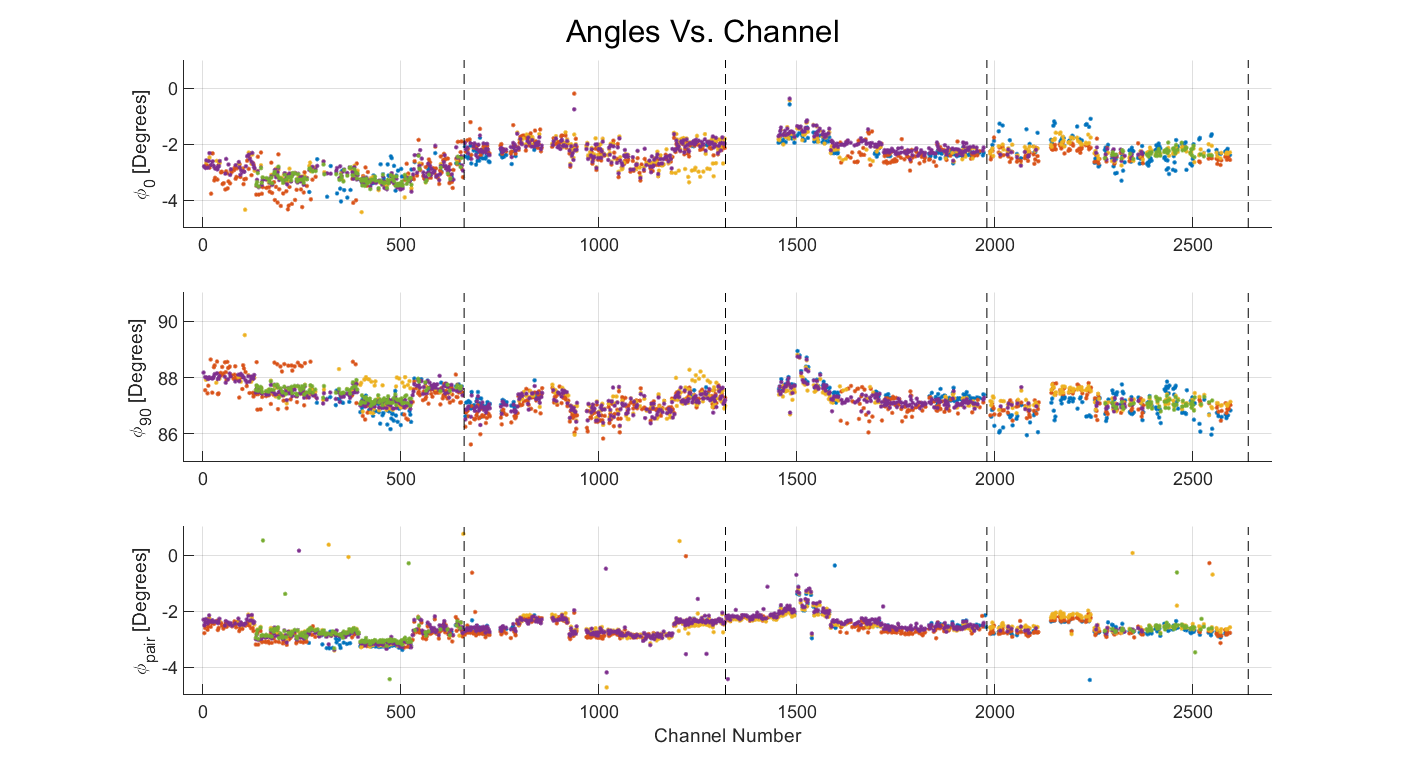
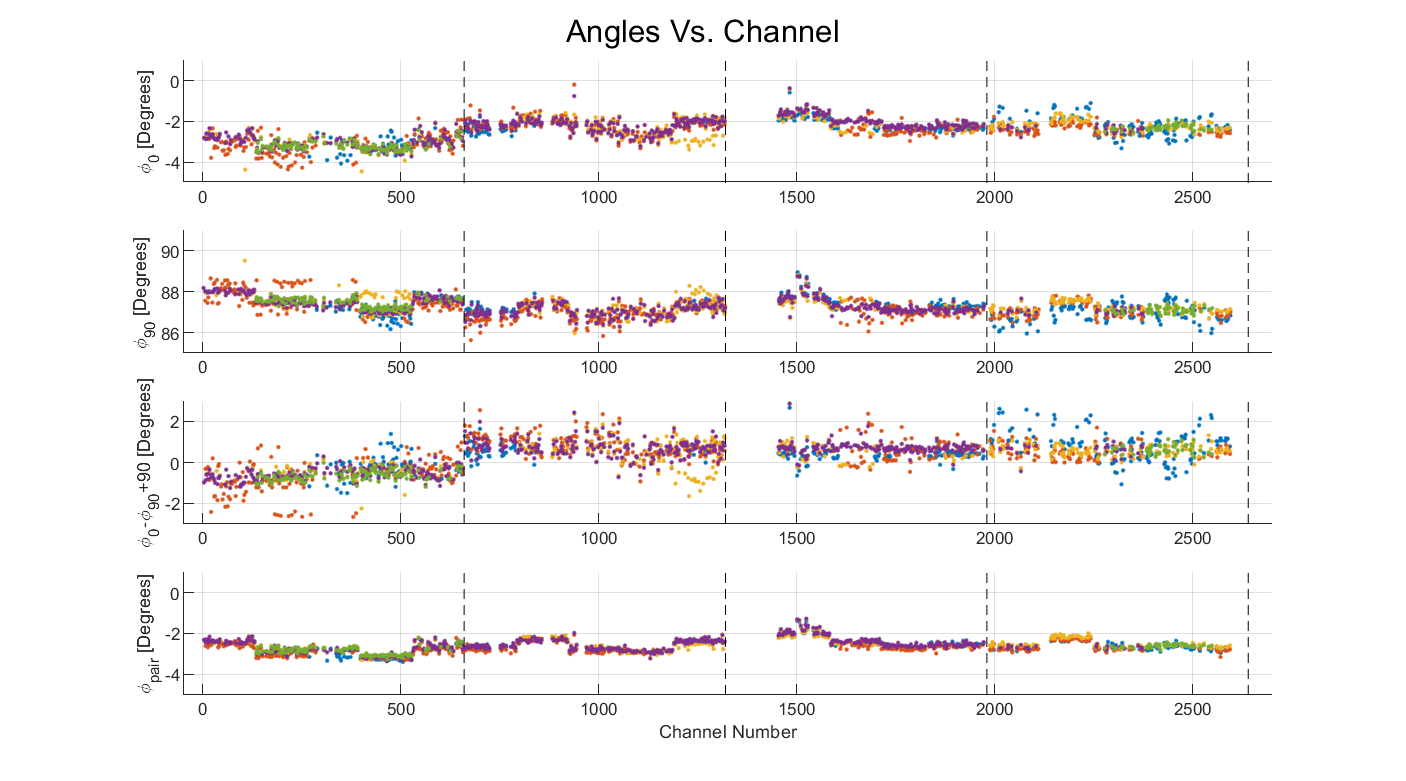
Mostly done with the math for phi_pair

diff --git a/2022mmdd_rps_angles_xpol/index.html b/2022mmdd_rps_angles_xpol/index.html
@@ -145,52 +145,53 @@
     <h4>Pair-Difference Polarization Angles</h4>
 
     <p>
-        It is also useful to calculate the "pair-difference" polarization angle. In practice, the contribution of the cross-polar response to this angle is very small so the per-pair polarization angle can be approximated by:
+        It is also useful to calculate the "pair-difference" polarization angle.
+        In practice, the contribution of the cross-polar response to this angle is very small so the per-pair polarization angle can be approximated by:
     </p>
     \begin{equation}
     \phi_{pair}\sim\frac{\phi_A+\phi_B}{2}
     \end{equation}
 
-    <p>
-        We first calculate the contribution to Q and U:
-    </p>
+
+    <p>We start with a Stokes vector aligned with +Q:</p>
 
     \begin{equation}
-    \begin{split}
-    &Q_{tot} = Q^+-(Q^-)\\
-    &U_{tot} = U^+-(U^-)\\
-    \end{split}
+    S =
+    \begin{bmatrix}
+    I \\
+    Q \\
+    U \\
+    \end{bmatrix}
+    =
+    \begin{bmatrix}
+    1 \\
+    1 \\
+    0 \\
+    \end{bmatrix}
     \end{equation}
 
-    <p>
-    +Q and -Q have contributions from the polarization response given by the polarization angle and the cross-polar response. The total contribution is a weighted average
-    </p>
+    <p>and rotate Q into U by the per-detector polarization angle $\phi$</p>
 
     \begin{equation}
-    \begin{split}
-        Q = \frac{( Q^+_A+\epsilon_B Q^+_B)-( Q_B^{-}+\epsilon_B Q^-_A)}{2+\epsilon_A+\epsilon_B}
-    \end{split}
+    S_{rot} = R(\phi)S
     \end{equation}
 
-
-    <p>If I orient Q such that +Q is aligned with $\phi_d=0/180^\circ$, I can rewrite </p>
+    <p>Where R is the rotation matrix</p>
 
     \begin{equation}
-    \begin{split}
-
-    \end{split}
+    R(\phi) =
+    \begin{bmatrix}
+    1 & 0 & 0 \\
+    0 & \cos(2\phi) & -\sin(2\phi) \\
+    0 & \sin(2\phi) & \cos(2\phi) \\
+    \end{bmatrix}
     \end{equation}
 
-    <p></p>
+<p>The pair-combined Stokes vector is the sum of the rotated vectors from A and B detectors as well as two additional terms to account for cross-polar response which are orthogonal to their respective A/B terms and scaled by the cross-polar response</p>
 
-    \begin{equation}\label{eq:QU}
-    \begin{split}
-    &Q = \frac{\left[\cos(2\phi_A)+\epsilon_B\cos(2\,(\phi_B+90))\right]-\left[\cos(2\phi_B)+\epsilon_A\cos(2\,(\phi_A+90))\right]}{2+\epsilon_A+\epsilon_B}\\
-    &\\
-    &U = \frac{\left[\sin(2\phi_A)+\epsilon_B\sin(2\phi_B+90)\right]-\left[\sin(2\phi_B)+\epsilon_A\sin(2\phi_A+90)\right]}{2+\epsilon_A+\epsilon_B}\\
-    \end{split}
+    \begin{equation}
+    S_{total} = \left[R(\phi_A)+R(\phi_B+\frac{\pi}{2})+\epsilon_A R(\phi_A+\frac{\pi}{2})+ \epsilon_B R(\phi_B)\right]S
     \end{equation}
-
 
     <p>
         and the effective per-pair polarization angle $\phi_{pair}$ and polarization efficiency
@@ -198,9 +199,9 @@
     </p>
     \begin{equation}\label{eq:phiq}
     \begin{split}
-    &\phi_{pair} = \frac{1}{2}\tan^{-1}\frac{U}{Q}\\
+    &\phi_{pair} = \frac{1}{2}\tan^{-1}\frac{S_3}{S_2}\\
     &\\
-    &\epsilon_{pair} = 1-\sqrt{Q^2+U^2}
+    &\epsilon_{pair} = S_1-\sqrt{S_2^2+S_3^2}
     \end{split}
     \end{equation}
 

diff --git a/2022mmdd_rps_angles_xpol/scripts/posting_plots_rps_analysis_2.m b/2022mmdd_rps_angles_xpol/scripts/posting_plots_rps_analysis_2.m
@@ -19,8 +19,8 @@ p_ind = coaddopt.ind;
 figdir = fullfile('C:','Users','James','Documents','GitHub','postings','2022mmdd_rps_angles_xpol','figs','');
 %% Grab the chis
 
-inda = p_ind.a;
-indb = p_ind.b;
+inda = p_ind.rgl100a;
+indb = p_ind.rgl100b;
 
 ind0 = [p_ind.rgl100a(ismember(p_ind.rgl100a,find(p.mce~=0))) ...
     p_ind.rgl100b(ismember(p_ind.rgl100b,find(p.mce==0)))];
@@ -56,26 +56,25 @@ end
 
 % Calculate pair-diff angles
 % Loop over channels to account for MCE0;
-[phi_pair, poleff_pair, phi_pair_err] = deal(NaN(len,2640));
+[phi_pair, poleff_pair, phi_pair_err,Qpair,Upair] = deal(NaN(len,2640));
 for schind = 1:len
-    for chind = 1:length(inda)
+    for chind = 1:length(ind0)
 
-        pha = phis(schind,inda(chind));
-        phb = phis(schind,indb(chind));
-        ea = xpols(schind,inda(chind));
-        eb = xpols(schind,indb(chind));
+        pha = phis(schind,ind0(chind));
+        phb = phis(schind,ind90(chind));
+        ea = xpols(schind,ind0(chind));
+        eb = xpols(schind,ind90(chind));
 
-        phi_pair_err(schind,inda(chind)) = max(phis_err(schind,[inda(chind) indb(chind)]));
-        if p.mce(inda(chind))~=0
+        phi_pair_err(schind,ind0(chind)) = max(phis_err(schind,[ind0(chind) ind90(chind)]));
 
-            [phi_pair(schind,inda(chind)), poleff_pair(schind,inda(chind))] = calc_pair_diff_pol(pha,phb,ea,eb);
-        else
+            [phi_pair(schind,ind0(chind)), poleff_pair(schind,ind0(chind))] = calc_pair_diff_pol(pha,phb,ea,eb);
+            [Qpair(schind,ind0(chind)),Upair(schind,ind0(chind))] = calc_pair_diff_stokes(pha,phb,ea,eb);
 
-            [phi_pair(schind,inda(chind)), poleff_pair(schind,inda(chind))] = calc_pair_diff_pol(phb,pha,eb,ea);
-        end
 
     end
 end
+
+
 
 % Do the same thing for 2018 data
 
@@ -133,20 +132,20 @@ if 1
     % Loop over channels to account for MCE0;
     [phi_pair_2018, poleff_pair_2018, phi_pair_err_2018] = deal(NaN(len,2640));
     for schind = 1:len
-        for chind = 1:length(inda)
+        for chind = 1:length(ind0)
 
-            pha = phis_2018(schind,inda(chind));
-            phb = phis_2018(schind,indb(chind));
-            ea = xpols_2018(schind,inda(chind));
-            eb = xpols_2018(schind,indb(chind));
+            pha = phis_2018(schind,ind0(chind));
+            phb = phis_2018(schind,ind90(chind));
+            ea = xpols_2018(schind,ind0(chind));
+            eb = xpols_2018(schind,ind90(chind));
 
-            phi_pair_err_2018(schind,inda(chind)) = max(phis_err_2018(schind,[inda(chind) indb(chind)]));
-            if p.mce(inda(chind))~=0
+            phi_pair_err_2018(schind,ind0(chind)) = max(phis_err_2018(schind,[ind0(chind) ind90(chind)]));
+            if p.mce(ind0(chind))~=0
 
-                [phi_pair_2018(schind,inda(chind)), poleff_pair_2018(schind,inda(chind))] = calc_pair_diff_pol(pha,phb,ea,eb);
+                [phi_pair_2018(schind,ind0(chind)), poleff_pair_2018(schind,ind0(chind))] = calc_pair_diff_pol(pha,phb,ea,eb);
             else
 
-                [phi_pair_2018(schind,inda(chind)), poleff_pair_2018(schind,inda(chind))] = calc_pair_diff_pol(phb,pha,eb,ea);
+                [phi_pair_2018(schind,ind0(chind)), poleff_pair_2018(schind,ind0(chind))] = calc_pair_diff_pol(phb,pha,eb,ea);
             end
 
 
@@ -192,43 +191,44 @@ V2 = {phi_pair, phi_pair_2018};
 for yearind = 1:2
 
 
-fig = figure(21);
-fig.Position(3:4) = [900 500];
-clf;
+    fig = figure(21);
+    fig.Position(3:4) = [900 500];
+    clf;
 
-clc
-cmlines = colormap('lines');
-for dkind = 1:length(dks)
-    X = {ind0, ind90, 1:2640};
-    Y = {V{yearind}(dkind,ind0), V{yearind}(dkind,ind90), V2{yearind}(dkind,:)};
-    ylab = {'\phi_0','\phi_{90}','\phi_{pair}'};
-    ylims = {[-5 1], [85 91], [-5 1]};
+    clc
+    cmlines = colormap('lines');
+    for dkind = 1:length(dks)
+        X = {ind0, ind90, ind0, ind0};
+        Y = {V{yearind}(dkind,ind0), V{yearind}(dkind,ind90), ...
+            V{yearind}(dkind,ind0)-V{yearind}(dkind,ind90)+90 ,V2{yearind}(dkind,ind0)};
+        ylab = {'\phi_0','\phi_{90}','\phi_0-\phi_{90}+90','\phi_{pair}'};
+        ylims = {[-5 1], [85 91], [-3 3],[-5 1]};
 
-    for pltind = 1:length(X)
-
-
-        subplot(3,1,pltind)
-        hold on
+        for pltind = 1:length(X)
 
 
+            subplot(length(X),1,pltind)
+            hold on
 
-        plot(X{pltind},Y{pltind},'.','Color',cmlines(dkind,:))
-        grid on
-        ylabel([ylab{pltind} ' [Degrees]'])
 
-        for mceind = 0:3
-            chind = max(find(p.mce==mceind));
-            plot([1 1]*chind,ylims{pltind},'k--')
+
+            plot(X{pltind},Y{pltind},'.','Color',cmlines(dkind,:))
+            grid on
+            ylabel([ylab{pltind} ' [Degrees]'])
+
+            for mceind = 0:3
+                chind = max(find(p.mce==mceind));
+                plot([1 1]*chind,ylims{pltind},'k--')
+            end
+            ylim(ylims{pltind})
+            xlim([-50 2700])
         end
-        ylim(ylims{pltind})
-        xlim([-50 2700])
-    end
 
-end
-xlabel('Channel Number')
-sgtitle('Angles Vs. Channel')
-fname = sprintf('phi_vs_chan_090_%s.png',yrnames{yearind});
-saveas(fig,fullfile(figdir,fname))
+    end
+    xlabel('Channel Number')
+    sgtitle('Angles Vs. Channel')
+    fname = sprintf('phi_vs_chan_090_%s.png',yrnames{yearind});
+    saveas(fig,fullfile(figdir,fname))
 end
 
 
@@ -279,10 +279,6 @@ sgtitle('Xpol Vs. Channel')
 fname = sprintf('xpol_vs_chan_090_%s.png',yrnames{yearind});
 saveas(fig,fullfile(figdir,fname))
 end
-
-
-
-
 
 
 
